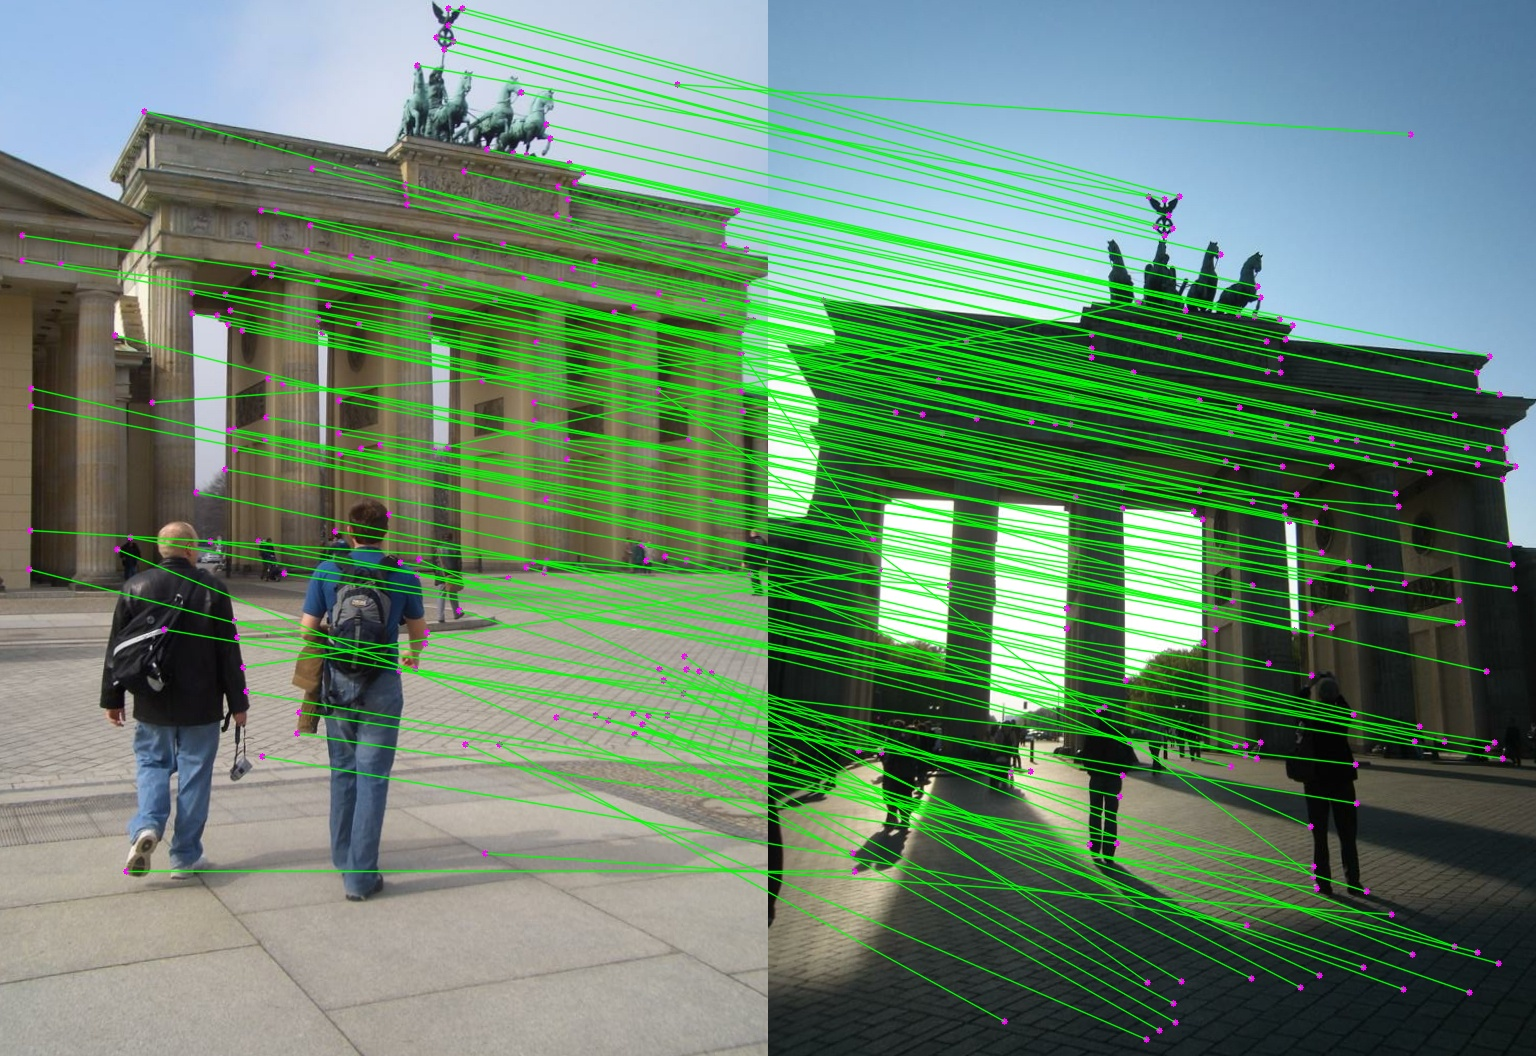
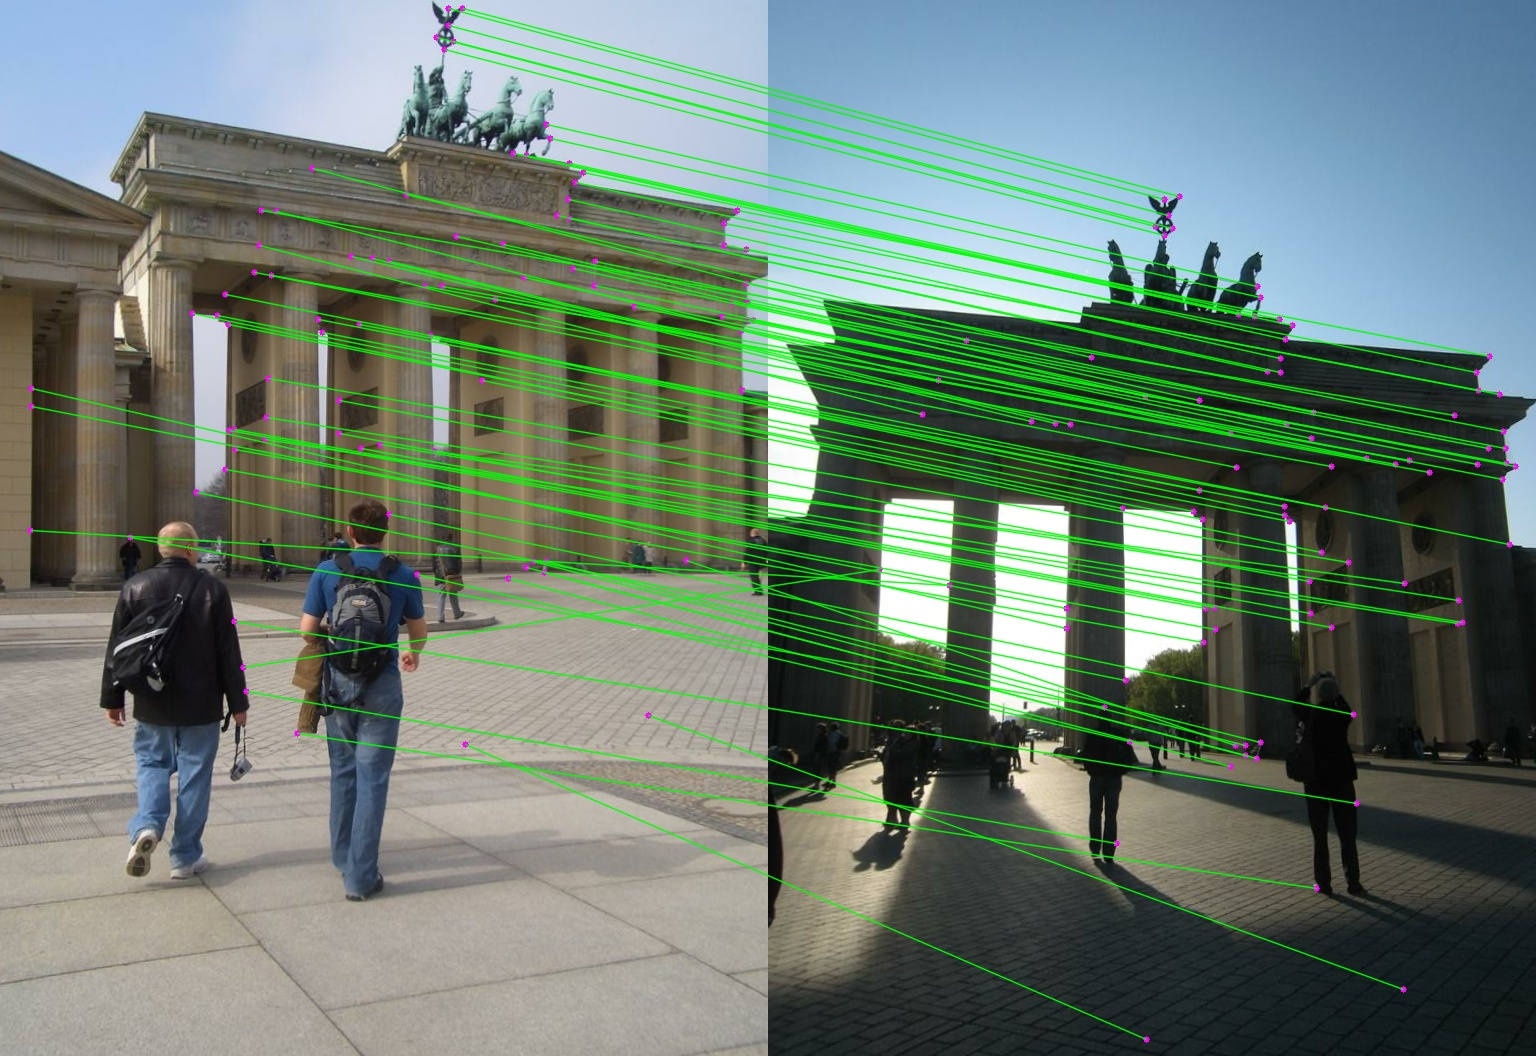
homework5

diff --git a/homeworks/homework_05.py b/homeworks/homework_05.py
@@ -155,7 +155,7 @@ class SuperPointNet(nn.Module):
         return out, out_inds
 
 
-def square_matrix(cfg, image1, image2):
+def desc_distances(cfg, image1, image2):
     superpoint_weights = cfg.superpoint_weights
 
     net = SuperPointNet()
@@ -179,7 +179,7 @@ def Cross_Check_Matching(cfg, D, image1, image2, pts1, pts2):
     dist_2_1 = D[np.arange(D.shape[0]), match_2_1]
 
     indices = np.arange(D.shape[0])
-    mask = (match_1_2[match_2_1] == indices) & (dist_2_1 < T)
+    mask = (match_1_2[match_2_1] == indices) & (np.sqrt(dist_2_1) < T)
 
     ind1 = match_2_1[mask]
     ind2 = indices[mask]
@@ -216,7 +216,7 @@ def Cross_Check_Matching(cfg, D, image1, image2, pts1, pts2):
 def main(cfg):
     image1 = cv2.imread(cfg.input_image_1)
     image2 = cv2.imread(cfg.input_image_2)
-    D, pts1, pts2 = square_matrix(cfg, image1, image2)
+    D, pts1, pts2 = desc_distances(cfg, image1, image2)
 
     Cross_Check_Matching(cfg, D, image1, image2, pts1, pts2)
 
